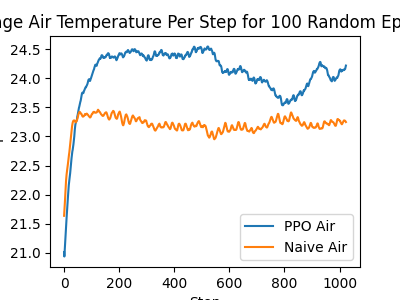
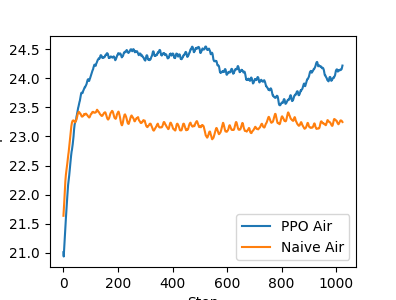
debugged the diverging settings issue

diff --git a/deep_hvac/simulator.py b/deep_hvac/simulator.py
@@ -1,3 +1,4 @@
+from socket import timeout
 from gym import Env, spaces
 import pandas as pd
 import numpy as np
@@ -29,8 +30,8 @@ class SimEnv(Env):
                                             high=np.array([inf, inf, inf, inf, inf, inf]),
                                             dtype=np.float32)
         # First element is heating setpoint, second element is cooling setpoint.
-        self.action_space = spaces.Box(low=np.array([-20, -20]),
-                                       high=np.array([20, 20]),
+        self.action_space = spaces.Box(low=np.array([-10, -10]),
+                                       high=np.array([10, 10]),
                                        dtype=np.float32)
 
         self.action_space
@@ -44,10 +45,10 @@ class SimEnv(Env):
 
         self.reset()
 
-    def reset(self):
+    def reset(self, time=5024):
         # reset time to a random time in the year
         # TODO: Reset to a random time that guarantees a full episode
-        self.time = random.randint(1000, 8760 - self.ep_length)
+        self.time = time
         self.timestep = 0
 
         # set episode return to 0
@@ -64,7 +65,7 @@ class SimEnv(Env):
             self.zone.t_set_heating, 
             self.zone.t_set_cooling, 
             cur_weather['Temperature'], 
-            getattr(self.zone, 't_air'), 
+            self.t_m_prev, 
             timestamp.hour,
             timestamp.weekday()
         ]
@@ -114,7 +115,7 @@ class SimEnv(Env):
         for attr in ('heating_demand', 'heating_energy', 'cooling_demand',
                      'cooling_energy', 'electricity_out', 't_air'):
             self.results[attr].append(getattr(self.zone, attr))
-        self.results['t_out'].append(t_out)
+        self.results['t_inside'].append(self.t_m_prev)
 
         self.results['solar_gain'].append(
             sum([window.solar_gains for window in self.windows]))
@@ -128,10 +129,10 @@ class SimEnv(Env):
         self.cur_state = [self.zone.t_set_heating, 
                          self.zone.t_set_cooling, 
                          t_out, 
-                         getattr(self.zone, 't_air'), 
+                         self.t_m_prev, 
                          timestamp.hour,
                          timestamp.weekday()]
-        reward, info = self.get_reward(elec_consumed * price, getattr(self.zone, 't_air'))
+        reward, info = self.get_reward(elec_consumed * price, self.t_m_prev)
         self.ep_reward += reward
         self.results['reward'].append(reward)
         self.results['set_heating'].append(self.zone.t_set_heating)
@@ -164,10 +165,10 @@ class SimEnv(Env):
         row = self.weather.reset_index().iloc[self.time]
         return row[0], row[1:]
 
-    def get_reward(self, price, t_air, lam=0.2):
+    def get_reward(self, price, t_air):
         """Return tuple of reward and info dict."""
         reward = -price
         if t_air < 20 or t_air > 25:
-            reward -= 1000
+            reward -= 50000
         info = {'reward':  reward}
         return reward, info

diff --git a/scripts/comparison.py b/scripts/comparison.py
@@ -22,7 +22,7 @@ def run_episode(agent, env, episode_steps):
 def get_results(agent, env, episode_steps=1024, max_steps=100000):
 
     results = defaultdict(list)
-    total_steps=0
+    total_steps = 0
     
     while total_steps < max_steps:
         ep_results = run_episode(agent, env, episode_steps)
@@ -55,6 +55,6 @@ if __name__ == "__main__":
                   'Naive Cooling': [[i for i in range(1024)], list(np.mean(np.array(naive_results['set_cooling']), axis=0))]}
 
 
-    plot_curves(price_dict, "Average Price Per Step for 100 Random Episodes", xlabel='Step', ylabel='Price')
-    plot_curves(air_dict, "Average Air Temperature Per Step for 100 Random Episodes", xlabel='Step', ylabel='Temp')
-    plot_curves(settings_dict, "Average Thermostat Settings Per Step for 100 Random Episodes", xlabel='Step', ylabel='Temp')
+    plot_curves(price_dict, "", xlabel='Step', ylabel='Price')
+    plot_curves(air_dict, "", xlabel='Step', ylabel='Temp')
+    plot_curves(settings_dict, "", xlabel='Step', ylabel='Temp')

diff --git a/deep_hvac/naive.py b/deep_hvac/naive.py
@@ -71,6 +71,7 @@ def naive_agent(env_name='DefaultBuilding-v0', max_steps=100000):
     random.seed(12)
 
     env = make_default_env()
+    env.zone.t_set_cooling = 40
     
     while total_steps < max_steps:
         ep_results = run_episode(env, episode_steps)
